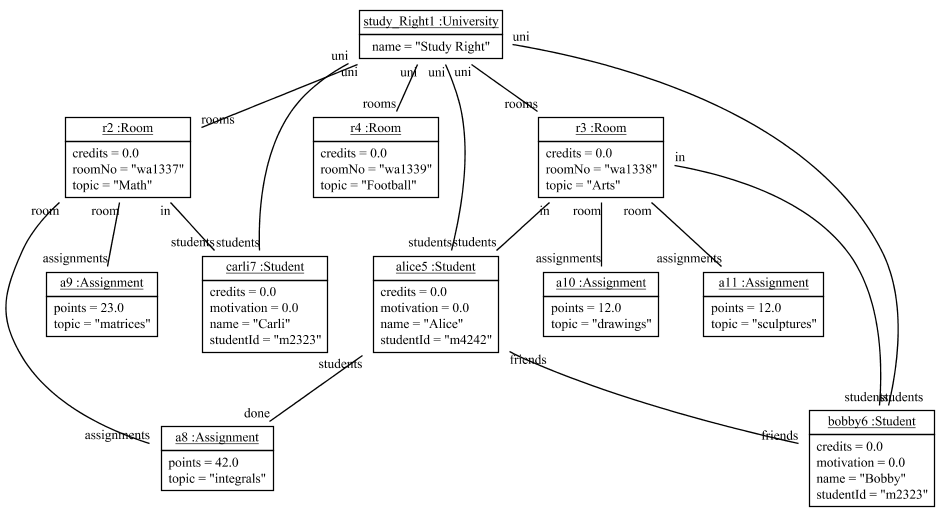
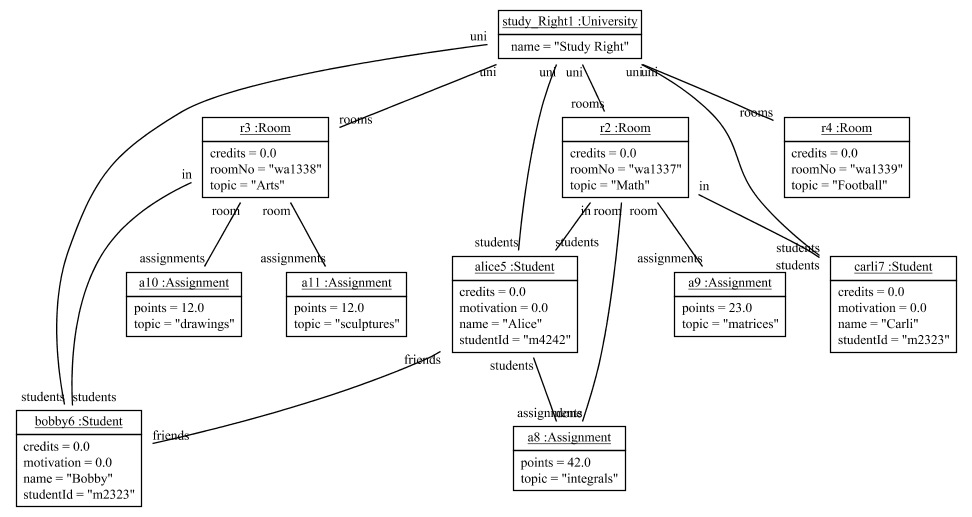
added table stories to generate fulib docu.

diff --git a/doc/FulibTables.md b/doc/FulibTables.md
@@ -55,6 +55,7 @@ Now, we generate the usual model implementation:
       Fulib.generator().generate(model);
 <!-- end_code_fragment: -->
 
+Once the generated code is compiled we may construct some objects:
 
 <!-- insert_code_fragment: StudyRightTables.objectModel -->
       // some objects
@@ -71,7 +72,7 @@ Now, we generate the usual model implementation:
       Assignment drawings = new Assignment().setTopic("drawings").setPoints(12).setRoom(artsRoom);
       Assignment sculptures = new Assignment().setTopic("sculptures").setPoints(12).setRoom(artsRoom);
 
-      Student alice = new Student().setStudentId("m4242").setName("Alice").setUni(studyRight).setIn(artsRoom).withDone(integrals);
+      Student alice = new Student().setStudentId("m4242").setName("Alice").setUni(studyRight).setIn(mathRoom).withDone(integrals);
       Student bob   = new Student().setStudentId("m2323").setName("Bobby"  ).setUni(studyRight).setIn(artsRoom).withFriends(alice);
       Student carli = new Student().setStudentId("m2323").setName("Carli").setUni(studyRight).setIn(mathRoom);
 <!-- end_code_fragment: -->
@@ -190,11 +191,11 @@ To further expand our table we might add students that are in rooms:
 <!-- insert_code_fragment: StudyRightTables.studentsTableResult -->
 University 	| Room 	| Assignment 	| Points 	| Student 	| 
  --- 	|  --- 	|  --- 	|  --- 	|  --- 	| 
+Study Right 	| wa1337 Math 	| integrals 	| 42.0 	| Alice m4242 	| 
 Study Right 	| wa1337 Math 	| integrals 	| 42.0 	| Carli m2323 	| 
+Study Right 	| wa1337 Math 	| matrices 	| 23.0 	| Alice m4242 	| 
 Study Right 	| wa1337 Math 	| matrices 	| 23.0 	| Carli m2323 	| 
-Study Right 	| wa1338 Arts 	| drawings 	| 12.0 	| Alice m4242 	| 
 Study Right 	| wa1338 Arts 	| drawings 	| 12.0 	| Bobby m2323 	| 
-Study Right 	| wa1338 Arts 	| sculptures 	| 12.0 	| Alice m4242 	| 
 Study Right 	| wa1338 Arts 	| sculptures 	| 12.0 	| Bobby m2323 	| 
 <!-- end_code_fragment: -->
 
@@ -205,16 +206,16 @@ In addition to the cross product we may select a subset of the
 table rows using a filter operation:
 
 <!-- insert_code_fragment: StudyRightTables.filterAssignmentsTable -->
-      assignmentsTable.filter( a -> a.getPoints() <= 20);
+      assignmentsTable.filter( a -> a.getPoints() <= 30);
       assertThat(students.getTable().size(), equalTo(4));
 <!-- end_code_fragment: -->
 
 <!-- insert_code_fragment: StudyRightTables.filterAssignmentsTableResult -->
 University 	| Room 	| Assignment 	| Points 	| Student 	| 
  --- 	|  --- 	|  --- 	|  --- 	|  --- 	| 
-Study Right 	| wa1338 Arts 	| drawings 	| 12.0 	| Alice m4242 	| 
+Study Right 	| wa1337 Math 	| matrices 	| 23.0 	| Alice m4242 	| 
+Study Right 	| wa1337 Math 	| matrices 	| 23.0 	| Carli m2323 	| 
 Study Right 	| wa1338 Arts 	| drawings 	| 12.0 	| Bobby m2323 	| 
-Study Right 	| wa1338 Arts 	| sculptures 	| 12.0 	| Alice m4242 	| 
 Study Right 	| wa1338 Arts 	| sculptures 	| 12.0 	| Bobby m2323 	| 
 <!-- end_code_fragment: -->
 
@@ -231,21 +232,16 @@ Alternatively we may filter by rows:
       {
          Student studi = (Student) row.get("Student");
          Assignment assignment = (Assignment) row.get("Assignment");
-         return ! studi.getDone().contains(assignment);
+         return studi.getDone().contains(assignment);
       });
 
-      assertThat(students.getTable().size(), equalTo(6));
+      assertThat(students.getTable().size(), equalTo(1));
 <!-- end_code_fragment: -->
 
 <!-- insert_code_fragment: StudyRightTables.filterRowTableResult -->
 University 	| B 	| Student 	| Assignment 	| 
  --- 	|  --- 	|  --- 	|  --- 	| 
-Study Right 	| wa1337 Math 	| Carli m2323 	| integrals 	| 
-Study Right 	| wa1337 Math 	| Carli m2323 	| matrices 	| 
-Study Right 	| wa1338 Arts 	| Alice m4242 	| drawings 	| 
-Study Right 	| wa1338 Arts 	| Alice m4242 	| sculptures 	| 
-Study Right 	| wa1338 Arts 	| Bobby m2323 	| drawings 	| 
-Study Right 	| wa1338 Arts 	| Bobby m2323 	| sculptures 	| 
+Study Right 	| wa1337 Math 	| Alice m4242 	| integrals 	| 
 <!-- end_code_fragment: -->
 
 Note, when we did the filter by assignment, our internal table had
@@ -253,3 +249,149 @@ been reduced to 4 rows. To have a full table for the filter by row
 operation, we had to reconstruct that full table. Note, on the reconstruction
 we did not provide a column name for the expandRooms call. Thus, the column
 got the name "B", the default name for the second column.
+
+Above row filter requires that the current student has done the
+current assignment. This filter condition may also be expressed by a
+hasDone operation:
+
+<!-- insert_code_fragment: StudyRightTables.filterHasDone -->
+      // filter row
+      uniTable = new UniversityTable(studyRight);
+      roomsTable = uniTable.expandRooms();
+      students = roomsTable.expandStudents("Student");
+      assignmentsTable = roomsTable.expandAssignments("Assignment");
+      students.hasDone(assignmentsTable);
+
+      assertThat(students.getTable().size(), equalTo(1));
+<!-- end_code_fragment: -->
+
+<!-- insert_code_fragment: StudyRightTables.filterHasDoneResult -->
+University 	| B 	| Student 	| Assignment 	| 
+ --- 	|  --- 	|  --- 	|  --- 	| 
+Study Right 	| wa1337 Math 	| Alice m4242 	| integrals 	| 
+<!-- end_code_fragment: -->
+
+
+Maybe its bad style, but the filter operations may also be used to modify
+the current model:
+
+<!-- insert_code_fragment: StudyRightTables.doCurrentAssignments -->
+      uniTable = new UniversityTable(studyRight);
+      roomsTable = uniTable.expandRooms();
+      students = roomsTable.expandStudents("Student");
+      assignmentsTable = roomsTable.expandAssignments("Assignment");
+
+      // do current assignments
+      students.filterRow( row ->
+      {
+         Student studi = (Student) row.get("Student");
+         Assignment assignment = (Assignment) row.get("Assignment");
+         studi.withDone(assignment);
+         return true;
+      });
+
+      FulibTools.objectDiagrams().dumpPng("../fulib/doc/images/studyRightObjectsMoreDone4Tables.png", studyRight);
+
+      assertThat(alice.getDone().size(), equalTo(2));
+      assertThat(integrals.getStudents().contains(alice), is(true));
+
+      // show size of done
+      uniTable.addColumn("noOfDone",  row ->
+      {
+         Student studi = (Student) row.get("Student");
+         return studi.getDone().size();
+      });
+
+      // show done
+      students.expandDone("Done");
+<!-- end_code_fragment: -->
+
+<!-- insert_code_fragment: StudyRightTables.doCurrentAssignmentsResult -->
+University 	| B 	| Student 	| Assignment 	| noOfDone 	| Done 	| 
+ --- 	|  --- 	|  --- 	|  --- 	|  --- 	|  --- 	| 
+Study Right 	| wa1337 Math 	| Alice m4242 	| integrals 	| 2 	| integrals 	| 
+Study Right 	| wa1337 Math 	| Alice m4242 	| integrals 	| 2 	| matrices 	| 
+Study Right 	| wa1337 Math 	| Alice m4242 	| matrices 	| 2 	| integrals 	| 
+Study Right 	| wa1337 Math 	| Alice m4242 	| matrices 	| 2 	| matrices 	| 
+Study Right 	| wa1337 Math 	| Carli m2323 	| integrals 	| 2 	| integrals 	| 
+Study Right 	| wa1337 Math 	| Carli m2323 	| integrals 	| 2 	| matrices 	| 
+Study Right 	| wa1337 Math 	| Carli m2323 	| matrices 	| 2 	| integrals 	| 
+Study Right 	| wa1337 Math 	| Carli m2323 	| matrices 	| 2 	| matrices 	| 
+Study Right 	| wa1338 Arts 	| Bobby m2323 	| drawings 	| 2 	| drawings 	| 
+Study Right 	| wa1338 Arts 	| Bobby m2323 	| drawings 	| 2 	| sculptures 	| 
+Study Right 	| wa1338 Arts 	| Bobby m2323 	| sculptures 	| 2 	| drawings 	| 
+Study Right 	| wa1338 Arts 	| Bobby m2323 	| sculptures 	| 2 	| sculptures 	| 
+<!-- end_code_fragment: -->
+
+![object diagram](images/studyRightObjectsMoreDone4Tables.png)
+
+As the current table contains some confusing cross products let
+us drop the Assignment column:
+
+<!-- insert_code_fragment: StudyRightTables.dropColumnsAssignment -->
+      uniTable.dropColumns("Assignment");
+<!-- end_code_fragment: -->
+
+<!-- insert_code_fragment: StudyRightTables.dropColumnsAssignmentResult -->
+University 	| B 	| Student 	| noOfDone 	| Done 	| 
+ --- 	|  --- 	|  --- 	|  --- 	|  --- 	| 
+Study Right 	| wa1337 Math 	| Alice m4242 	| 2 	| integrals 	| 
+Study Right 	| wa1337 Math 	| Alice m4242 	| 2 	| matrices 	| 
+Study Right 	| wa1337 Math 	| Carli m2323 	| 2 	| integrals 	| 
+Study Right 	| wa1337 Math 	| Carli m2323 	| 2 	| matrices 	| 
+Study Right 	| wa1338 Arts 	| Bobby m2323 	| 2 	| drawings 	| 
+Study Right 	| wa1338 Arts 	| Bobby m2323 	| 2 	| sculptures 	| 
+<!-- end_code_fragment: -->
+
+Alternatively, we may select the columns we are interested in:
+
+<!-- insert_code_fragment: StudyRightTables.selectColumns -->
+      students.selectColumns("Student", "Done");
+      assertThat(students.getTable().size(), equalTo(6));
+<!-- end_code_fragment: -->
+
+<!-- insert_code_fragment: StudyRightTables.selectColumnsResult -->
+Student 	| Done 	| 
+ --- 	|  --- 	| 
+Alice m4242 	| integrals 	| 
+Alice m4242 	| matrices 	| 
+Carli m2323 	| integrals 	| 
+Carli m2323 	| matrices 	| 
+Bobby m2323 	| drawings 	| 
+Bobby m2323 	| sculptures 	| 
+<!-- end_code_fragment: -->
+
+Note, you may use nested tables. This is handy if you
+want to update all elements of a certain column.
+
+<!-- insert_code_fragment: StudyRightTables.nestedTables -->
+      uniTable = new UniversityTable(studyRight);
+      students = uniTable.expandStudents("Students");
+      students.addColumn("Credits", row -> {
+         Student student = (Student) row.get("Students");
+         double pointSum = new StudentTable(student).expandDone().expandPoints().sum();
+         student.setCredits(pointSum);
+         return pointSum;
+      });
+      students.addColumn("Done", row -> {
+         Student student = (Student) row.get("Students");
+         String doneTopics = new StudentTable(student).expandDone().expandTopic().join(", ");
+         return doneTopics;
+      });
+<!-- end_code_fragment: -->
+
+Note, in the third last line operation expandTopic adds a column with
+the topic names of the corresponding assignments to the local table.
+On string columns one may call join in order to concatenate all
+strings.
+
+<!-- insert_code_fragment: StudyRightTables.nestedTablesResult -->
+University 	| Students 	| Credits 	| Done 	| 
+ --- 	|  --- 	|  --- 	|  --- 	| 
+Study Right 	| Alice m4242 	| 65.0 	| integrals, matrices 	| 
+Study Right 	| Bobby m2323 	| 24.0 	| drawings, sculptures 	| 
+Study Right 	| Carli m2323 	| 65.0 	| integrals, matrices 	| 
+<!-- end_code_fragment: -->
+
+![object diagram](images/studyRightObjectsCreditsAssigned4Tables.png)
+
